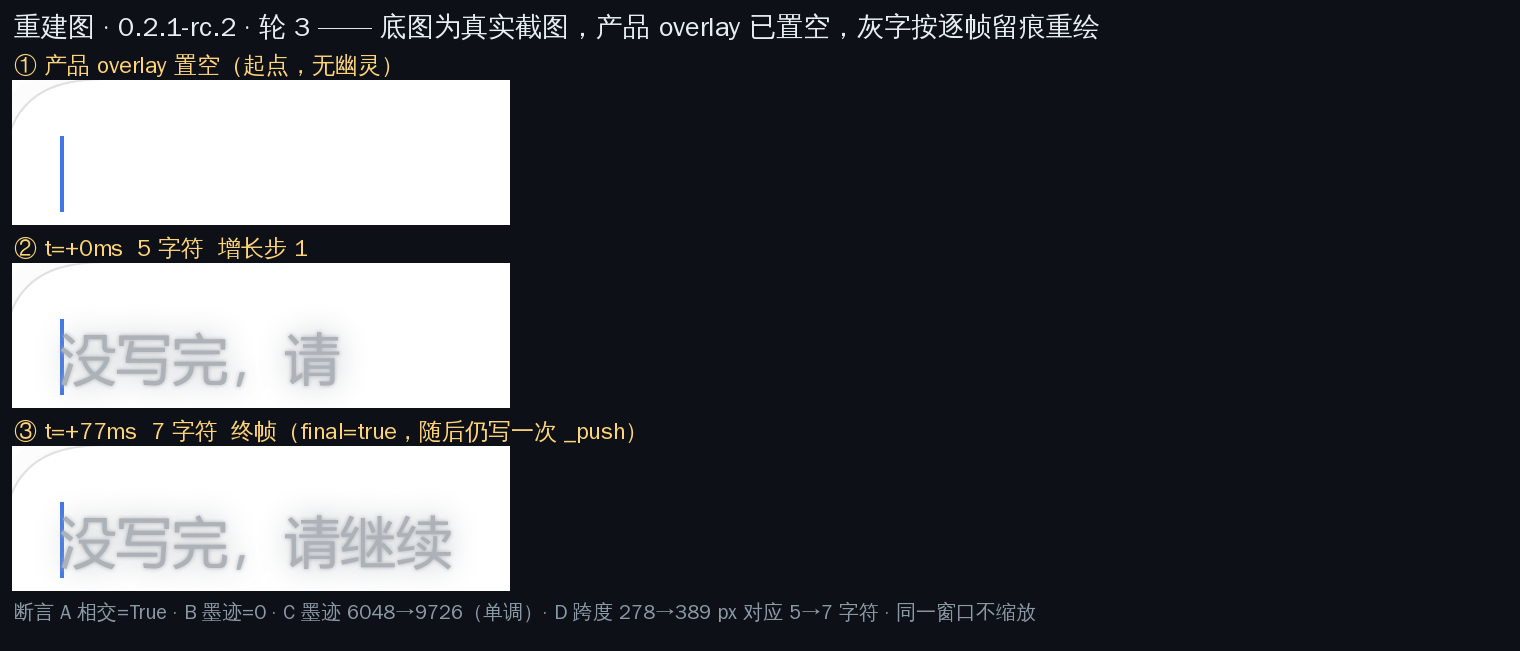
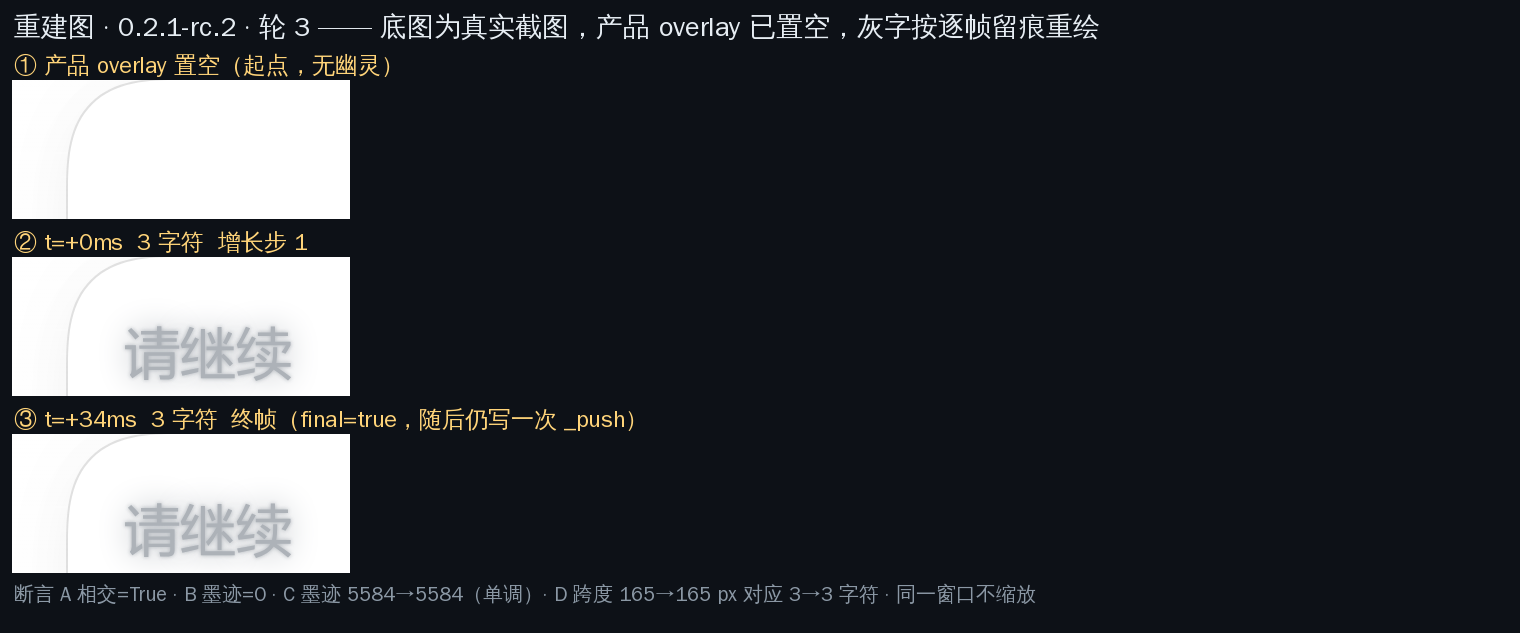
feat(gif3): 交付 GIF —— 每格停留∝真实帧间隔，并在每帧写"本图非录像"
裁切左边界 12→28px 修好首字被切后，四道断言重跑全过（B 仍精确=0）：
  轮1 5→11→15 字符，墨迹 2430→9620→15044，跨度 167→464→686px，t=+0/97/142ms
  轮2 7→12 字符，墨迹 10102→14663，跨度 387→670px，t=+0/85ms
  轮3 3→3 字符（终帧未带来新字符）⇒ **该轮无逐帧可见增长**，照实保留、不剔、不补帧
GIF 帧上每格都带一行"格与格之间的停留时长 ∝ 真实帧间隔 · 本图非录像"，
因为 GIF 会被单独转发，口径必须跟着图走，不能只在 README 里。

diff --git a/scripts/cross-kernel/stream-gif3-compose.py b/scripts/cross-kernel/stream-gif3-compose.py
@@ -104,11 +104,14 @@ def main():
         out.save(os.path.join(OUT, name))
         # ---- GIF 帧（每格一张，含真实 t= 标注）----
         for i, (lab, png, chars) in enumerate(cells):
-            fr = Image.new('RGB', (x1, ch + 40), (13, 17, 23))
+            fr = Image.new('RGB', (x1, ch + 74), (13, 17, 23))
             fd = ImageDraw.Draw(fr)
-            fd.text((12, 8), lab if chars else '起点 · 置空（无幽灵）', font=mid,
+            fd.text((12, 6), lab if chars else '起点 · 置空（无幽灵）', font=mid,
                     fill=(139, 152, 165) if chars == 0 else (255, 212, 121))
-            fr.paste(crop_of(png), (0, 38))
+            # 每帧都带这行：GIF 单独被转发时，"非录像 + 停留∝真实间隔"必须跟着走
+            fd.text((12, ch + 46), '格与格之间的停留时长 ∝ 真实帧间隔 · 本图非录像（overlay 已置空、灰字按逐帧留痕重绘）',
+                    font=sm, fill=(110, 124, 138))
+            fr.paste(crop_of(png), (0, 36))
             fr.save(os.path.join(OUT, 'gif-%02d-r%d.png' % (i, r['round'])))
         summary.append({'round': r['round'], 'file': name, 'ink': inks,
                         'span': [b - a for a, b in spans], 'chars': [c['chars'] for c in frames],
